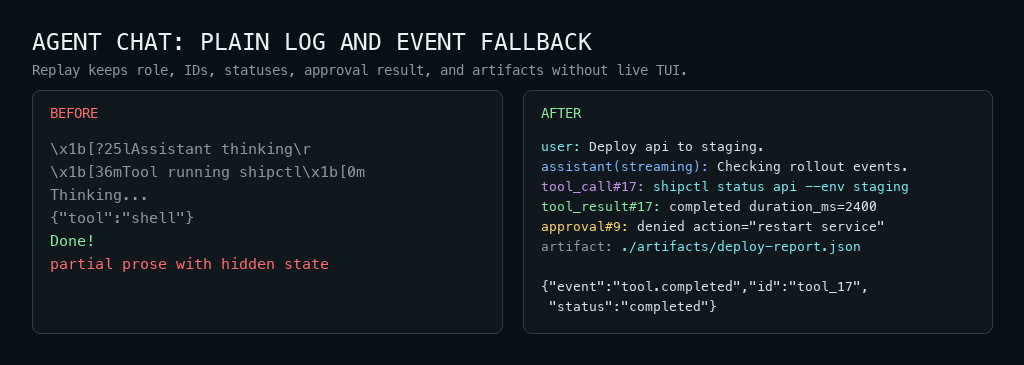
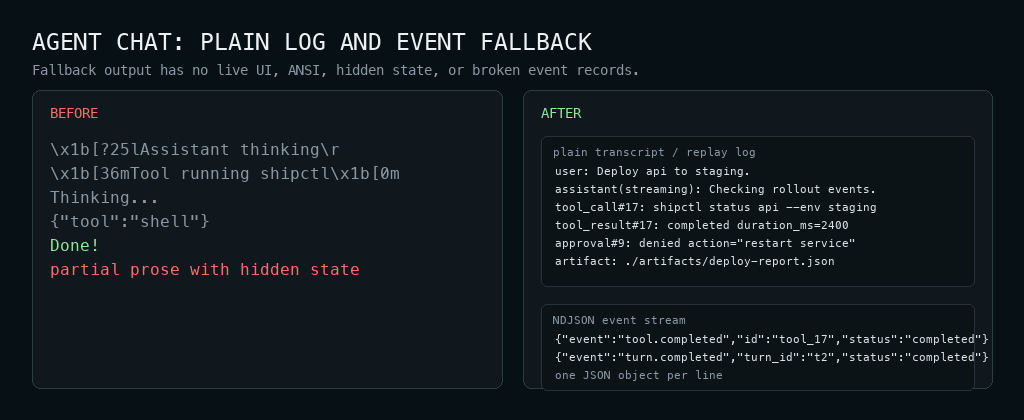
Tighten Agent Chat fallback examples

diff --git a/CLI-Design/README.md b/CLI-Design/README.md
@@ -335,7 +335,7 @@ Partial assistant prose...
 
 **After**
 
-![Before / after: Non-TTY and NDJSON Event Mode](./assets/readme-cases/agent-events.png)
+![Before / after: Non-TTY and NDJSON Event Mode](./assets/readme-cases/agent-events.png?v=event-contract-20260703)
 
 Off-TTY output removes live UI, cursor tricks, frames, animation, hidden role state, and raw
 ANSI. Machine streams use stable event types and documented schemas.
@@ -365,15 +365,14 @@ names operation, cause, impact, next step, and an inspectable log or artifact.
 
 ![Before / after: Error recovery and skill state](./assets/readme-cases/agent-error-skill.png)
 
-### More Agent Chat TUI Cases
+### Agent Chat Coverage Checklist
 
-The full visual reference covers Agent Chat atoms such as transcript roles, input draft,
-multiline paste, IME/CJK composition, assistant streaming, thinking summaries, tool use,
-tool results, code blocks, file trees, diffs, choices, approvals, recoverable errors,
-alerts, timers, background tasks, theme adaptation, suggestions, file mentions,
-cancellation, approval outcomes, artifacts, plain non-TTY fallback, and NDJSON event mode.
-
-![Agent Chat TUI Before / After](./assets/agent-chat-tui-before-after.png?v=readable-20260623)
+The images above are component-level checks, not one full-screen template. For production
+review, verify the rendered Agent Chat flow still covers transcript roles, input draft,
+queued input, IME/CJK composition, assistant streaming/final states, quiet thinking, tool
+running/completed/failed states, bounded long output, untrusted output, code/file/diff
+blocks, approvals, recoverable errors, background work, artifacts, interruption, replay,
+plain non-TTY fallback, and NDJSON event mode.
 
 ## Skill contents
 

diff --git a/CLI-Design/README.zh.md b/CLI-Design/README.zh.md
@@ -313,7 +313,7 @@ Partial assistant prose...
 
 **改造后**
 
-![Before / after: Non-TTY and NDJSON Event Mode](./assets/readme-cases/agent-events.png)
+![Before / after: Non-TTY and NDJSON Event Mode](./assets/readme-cases/agent-events.png?v=event-contract-20260703)
 
 非 TTY 下不保留 live UI、光标控制、动画、边框、隐藏 role state 或 raw ANSI。机器事件使用
 稳定 event type 和已文档化 schema。
@@ -341,14 +341,13 @@ not-ready state 和 setup-needed skill。生产级错误要说明 operation、ca
 
 ![Before / after: Error recovery and skill state](./assets/readme-cases/agent-error-skill.png)
 
-### 更多 Agent Chat TUI 例子
+### Agent Chat 覆盖检查清单
 
-完整视觉参考覆盖 Agent Chat 原子：transcript role、输入草稿、多行粘贴、IME/CJK、
-assistant streaming、thinking 摘要、tool use、tool result、code block、file tree、diff、choice、
-approval、recoverable error、alert、timer、background task、主题适配、suggestion、file mention、
-cancel、approval outcome、artifact、plain non-TTY fallback 和 NDJSON event mode。
-
-![Agent Chat TUI Before / After](./assets/agent-chat-tui-before-after.png?v=readable-20260623)
+上面的图片是组件级检查，不是一套固定全屏模板。生产 review 时，还要确认真实渲染出来的 Agent
+Chat flow 覆盖 transcript role、输入草稿、queued input、IME/CJK、assistant streaming/final
+state、低权重 thinking、tool running/completed/failed state、受限长输出、不可信输出、code/file/diff
+block、approval、recoverable error、background work、artifact、interrupt、replay、plain non-TTY
+fallback 和 NDJSON event mode。
 
 ## 文件结构
 
